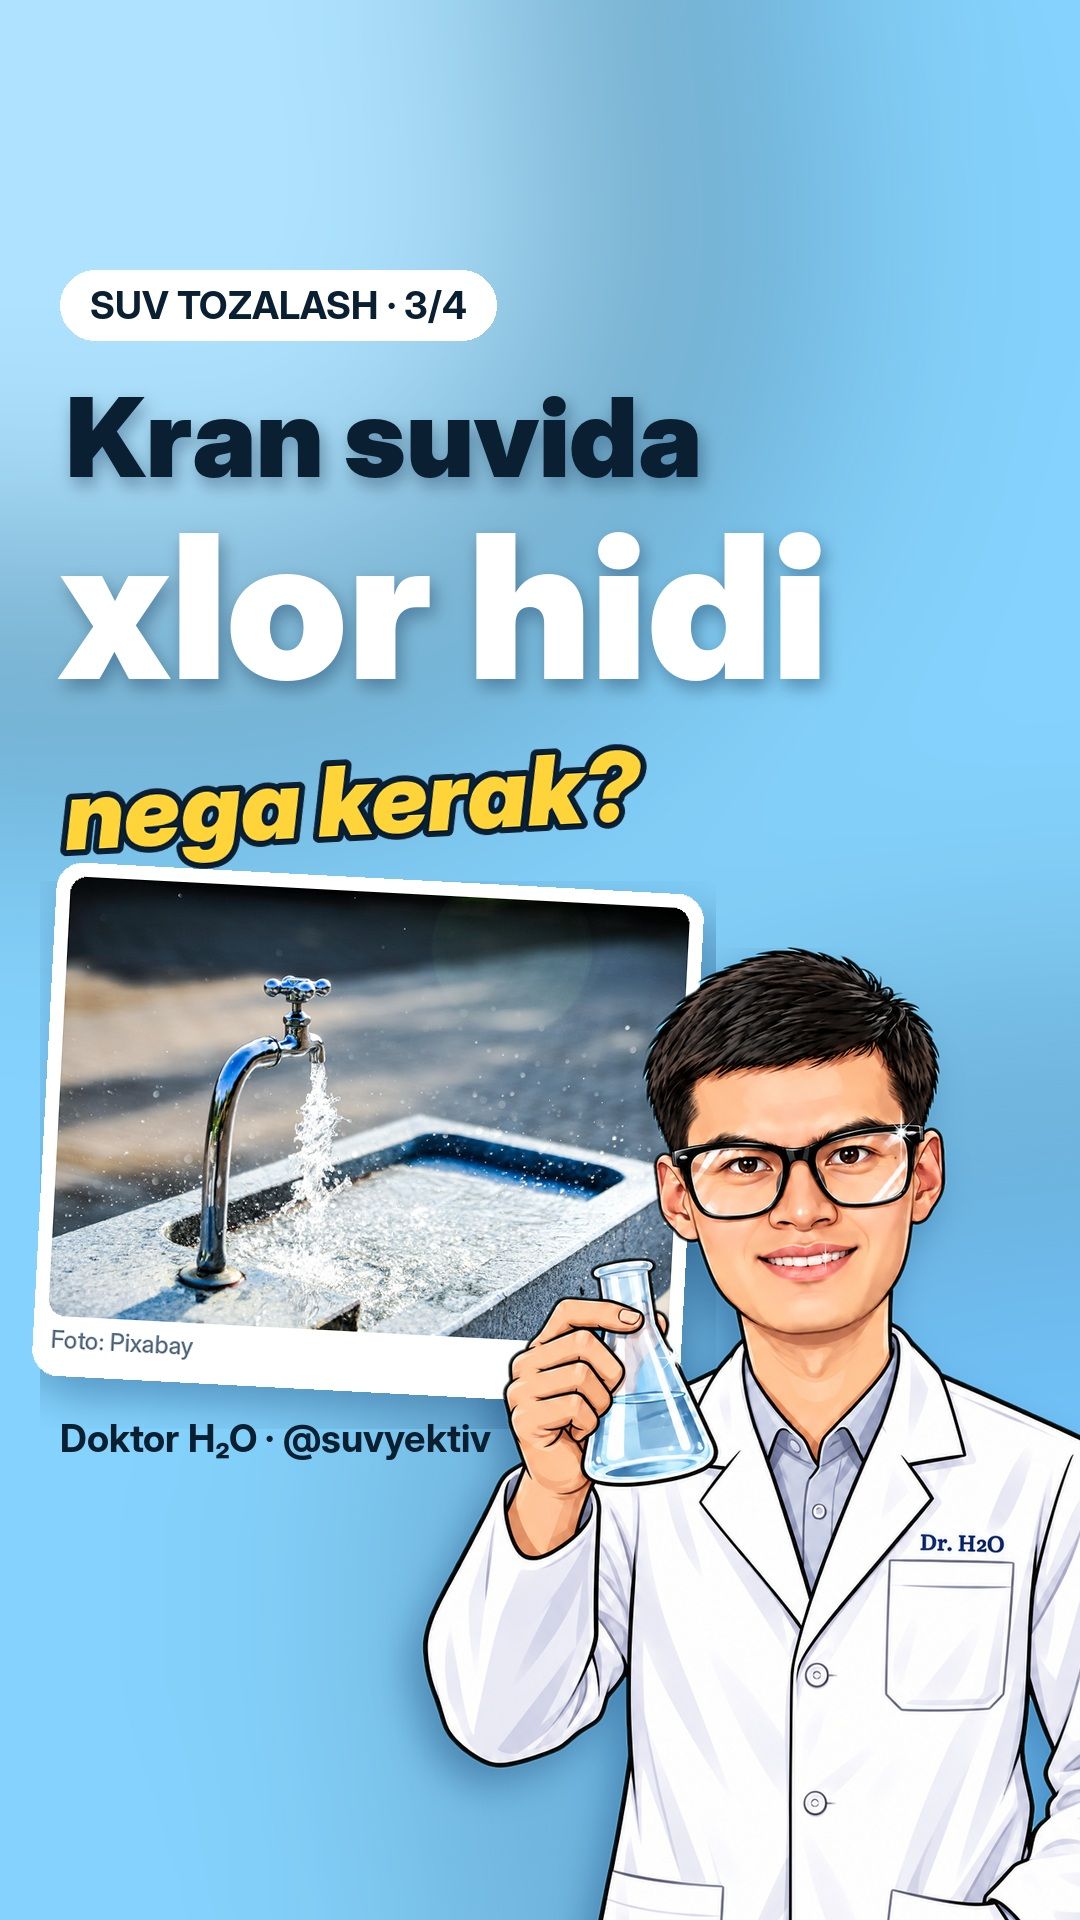
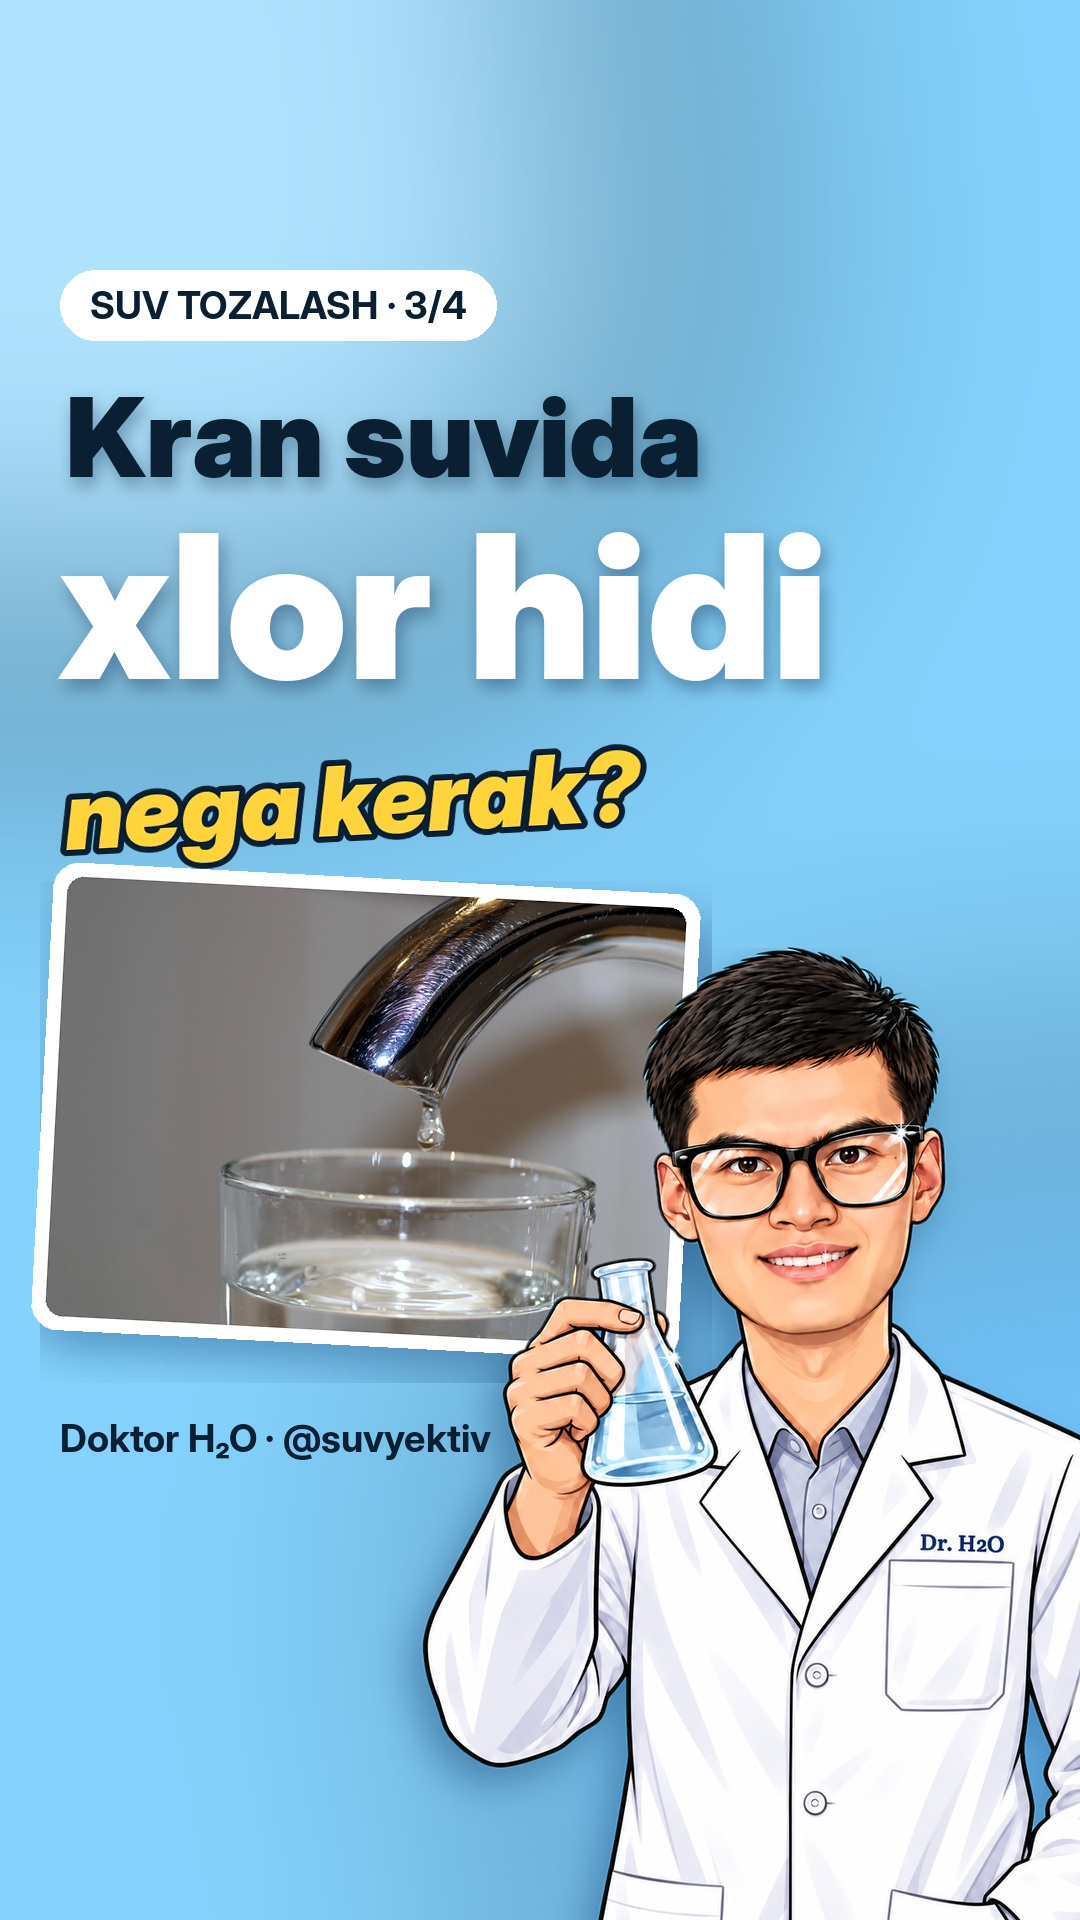
Grid covers: better-matching photos, no photo credit line, fix biologik hook
Claude-Session: https://claude.ai/code/session_011HDZ5Uv6NChoVbnSnix7oL

Changed region(s): [[0.0306, 0.4375, 0.6722, 0.75]]

diff --git a/tools/covers/grid_covers.py b/tools/covers/grid_covers.py
@@ -13,7 +13,7 @@ COVERS = [  # slug, chip, line1, line2, line3, cutout, icon, crop_bottom
     ("welcome", None, "Tanishing:", "Doktor H₂O", "suv haqida, ilm bilan", "w2", None, 0.50),
     ("suv-qanday", None, "Suv qanday", "tozalanadi?", "4 bosqichda", "s20", "steps", 120),
     ("fizik", "SUV TOZALASH · 1/4", "1-bosqich:", "Fizik usul", "panjara, qum, tindirish", "s8", "glass", 120),
-    ("biologik", "SUV TOZALASH · 2/4", "Suvni kim tozalaydi?", "Bakteriyalar", "ha, foydalilari!", "s16", "bact", 120),
+    ("biologik", "SUV TOZALASH · 2/4", "Suvni tozalaydi:", "Bakteriyalar", "ha, foydalilari!", "s16", "bact", 120),
     ("kimyoviy", "SUV TOZALASH · 3/4", "Kran suvida", "xlor hidi", "nega kerak?", "s24", "flask", 120),
     ("membranali", "SUV TOZALASH · 4/4", "Filtr ichida", "membrana", "qanday ishlaydi?", "s12", "membrane", 120),
     ("qaynatilgan", None, "Qaynatilgan suv", "tozami?", "choynakdagi oq qatlam", "q2", "kettle", 0.62),
@@ -33,11 +33,10 @@ def photo_card(im, path, x, y, w=620, h=440, angle=-3):
     ph = Image.open(path).convert("RGB"); r = max(w / ph.width, h / ph.height)
     ph = ph.resize((int(ph.width * r) + 1, int(ph.height * r) + 1), Image.LANCZOS)
     ph = ph.crop(((ph.width - w) // 2, (ph.height - h) // 2, (ph.width - w) // 2 + w, (ph.height - h) // 2 + h))
-    b = 14; card = Image.new("RGBA", (w + 2 * b, h + 2 * b + 46), (0, 0, 0, 0)); cd = ImageDraw.Draw(card)
+    b = 14; card = Image.new("RGBA", (w + 2 * b, h + 2 * b), (0, 0, 0, 0)); cd = ImageDraw.Draw(card)
     cd.rounded_rectangle([0, 0, card.width - 1, card.height - 1], 26, fill=WHITE + (255,))
     mask = Image.new("L", (w, h), 0); ImageDraw.Draw(mask).rounded_rectangle([0, 0, w - 1, h - 1], 16, fill=255)
     card.paste(ph, (b, b), mask)
-    cd.text((b + 4, h + b + 23), "Foto: Pixabay", font=fn("Medium", 24), fill=(90, 110, 130, 255), anchor="lm")
     card = card.rotate(angle, resample=Image.BICUBIC, expand=True)
     sh = Image.new("RGBA", card.size, (0, 40, 90, 0)); sh.putalpha(card.getchannel("A").point(lambda v: int(v * .35)))
     im.alpha_composite(sh.filter(ImageFilter.GaussianBlur(20)), (x + 10, y + 20)); im.alpha_composite(card, (x, y))

diff --git a/tools/covers/PHOTOS.md b/tools/covers/PHOTOS.md
@@ -1,8 +1,8 @@
-# Grid cover photos (Pixabay Content License)
-- welcome: https://pixabay.com/photos/lab-analysis-diagnostics-hospital-2815643/ (jarmoluk)
+# Grid cover photos (Pixabay Content License, no attribution required)
+- welcome: https://pixabay.com/photos/lab-research-chemistry-test-217043/
 - suv-qanday: https://pixabay.com/photos/water-treatment-plant-7382931/
 - fizik: https://pixabay.com/photos/sewage-treatment-plant-wastewater-2224933/
-- biologik: https://pixabay.com/photos/switzerland-water-4565366/ (scoob_switzerland)
-- kimyoviy: https://pixabay.com/photos/faucet-sink-tap-tap-water-flow-3240211/ (JonasKIM)
-- membranali: https://pixabay.com/photos/machine-tubes-blue-pipes-factory-495376/ (Martinelle)
-- qaynatilgan: https://pixabay.com/photos/electric-kettle-tea-boiling-water-6966011/ (Engin_Akyurt)
+- biologik: https://pixabay.com/photos/water-sewage-pollution-plum-3628680/
+- kimyoviy: https://pixabay.com/photos/water-tap-waterworks-cup-drink-2057924/
+- membranali: https://pixabay.com/photos/reverse-osmosis-pure-water-project-4754603/
+- qaynatilgan: https://pixabay.com/photos/water-heater-glass-water-blow-357186/
